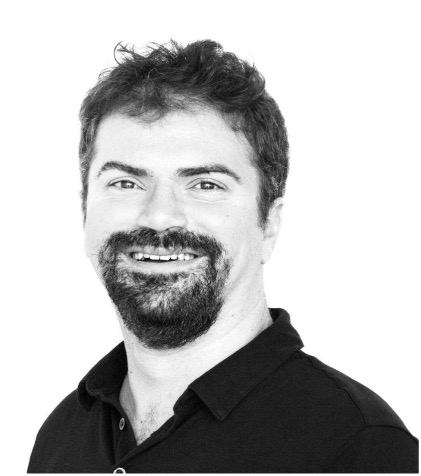
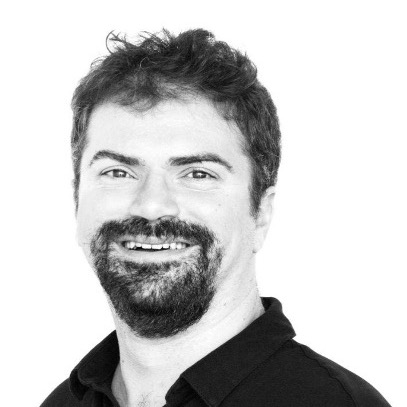
more team photos

Changed region(s): [[0.059, 0.059, 1.0, 1.0], [0.5602, 0.1769, 0.5897, 0.2064]]

diff --git a/index.html b/index.html
@@ -63,7 +63,7 @@
                     <p>AJ</p>
                 </li>
                 <li>
-                    <img src="images/team/avatar.svg" alt="">
+                    <img src="images/team/ankit.jpg" alt="">
                     <p>Ankit</p>
                 </li>
                 <li>
@@ -79,11 +79,11 @@
                     <p>Georgi</p>
                 </li>
                 <li>
-                    <img src="images/team/avatar.svg" alt="">
+                    <img src="images/team/htoo.jpg" alt="">
                     <p>Htoo</p>
                 </li>
                 <li>
-                    <img src="images/team/avatar.svg" alt="">
+                    <img src="images/team/james.jpg" alt="">
                     <p>James</p>
                 </li>
                 <li>
@@ -111,16 +111,12 @@
                     <p>Ted</p>
                 </li>
                 <li>
-                    <img src="images/team/avatar.svg" alt="">
+                    <img src="images/team/thar.jpg" alt="">
                     <p>Thar</p>
                 </li>
                 <li>
                     <img src="images/team/tino.jpg" alt="">
                     <p>Tino</p>
-                </li>
-                <li>
-                    <img src="images/team/avatar.svg" alt="">
-                    <p>Zwe</p>
                 </li>
             </ul>
         </section>
